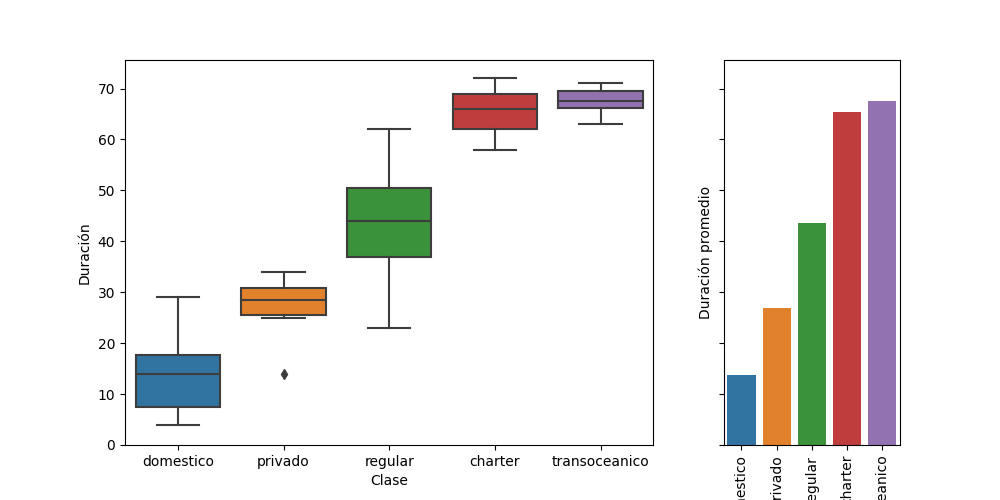
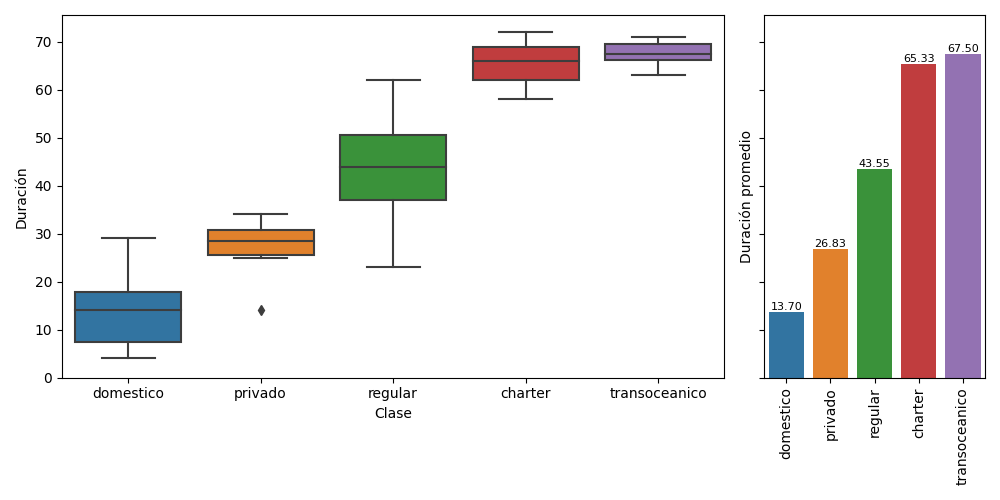
Update 6 files

diff --git a/Practica2-20230323/main.py b/Practica2-20230323/main.py
@@ -1,3 +1,5 @@
+# Nombre del archivo: main.py
+# Autores: Óscar Vilela Rodríguez (oscar.vilela.rodriguez@udc.es), Guillermo García Engelmo (g.garcia2@udc.es)
 import sys
 from classes import *
 
@@ -154,6 +156,11 @@ def run(path):
             ax2.set(xlabel='', ylabel='Duración promedio')
             ax2.set_xticklabels(ax2.get_xticklabels(), rotation=90)
 
+            # Agregar valor promedio de cada clase
+            for i, row in df.groupby('clase')['duracion'].mean().reset_index().iterrows():
+                ax2.text(i, row['duracion'], f"{row['duracion']:.2f}", ha='center', va='bottom', size=8)
+            
+            plt.tight_layout()
             plt.show()
             plt.savefig('Gráficos1.png')
         if y == 1:
@@ -166,6 +173,12 @@ def run(path):
             sns.barplot(x='duracion', y='clase', data=df.groupby('clase')['duracion'].mean().reset_index(), ax=ax2)
             ax2.set(xlabel='Duración promedio', ylabel='')
 
+             # Agregar valor promedio de cada clase
+            for i, row in df.groupby('clase')['duracion'].mean().reset_index().iterrows():
+                ax2.text(row['duracion'], i, f"{row['duracion']:.2f}", ha='left', va='center', size=8)
+    
+
+            plt.tight_layout()
             plt.show()
             plt.savefig('Gráficos2.png')
         
@@ -177,7 +190,12 @@ def run(path):
 
             sns.barplot(y='clase', x='duracion', data=df.groupby('clase')['duracion'].mean().reset_index(), ax=ax2)
             ax2.set(xlabel='Duración promedio', ylabel='')
-
+            
+            # Agregar valor promedio de cada clase
+            for i, row in df.groupby('clase')['duracion'].mean().reset_index().iterrows():
+                ax2.text(row['duracion'], i, f"{row['duracion']:.2f}", ha='right', va='center', size=8)
+            
+            plt.tight_layout()
             plt.show()
             plt.savefig('Gráficos3.png')
 

diff --git a/Practica2-20230323/classes.py b/Practica2-20230323/classes.py
@@ -1,5 +1,6 @@
+# Nombre del archivo: classes.py
+# Autores: Óscar Vilela Rodríguez (oscar.vilela.rodriguez@udc.es), Guillermo García Engelmo (g.garcia2@udc.es)
 from abc import ABC, abstractmethod
-import heapq
 
 class Avion:
     """
